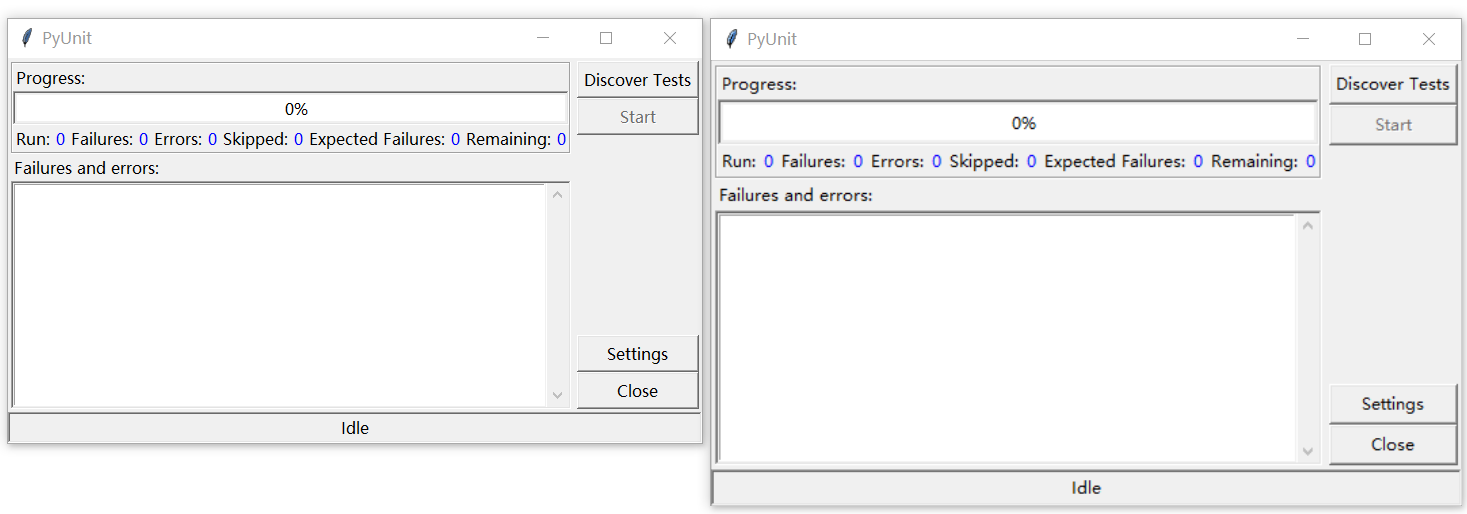
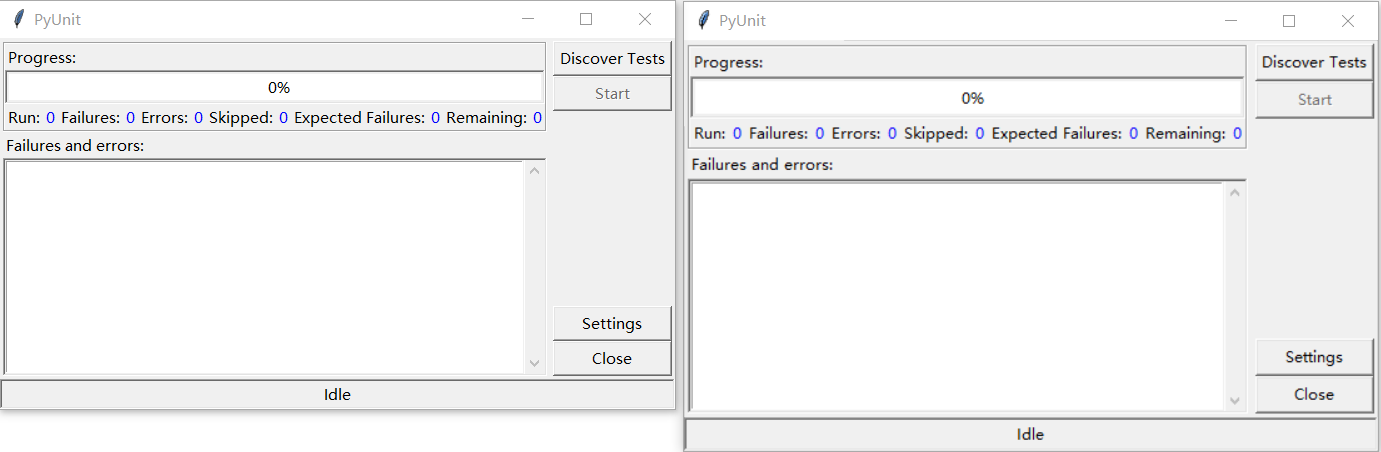
release 1.2.0

Changed region(s): [[0.0, 0.0, 1.0, 1.0]]

diff --git a/hidpi_tk/__init__.py b/hidpi_tk/__init__.py
@@ -3,7 +3,7 @@ import re
 from ctypes import pointer, windll, wintypes
 from tkinter import Tk
 
-__version__ = "1.1.0"
+__version__ = "1.2.0"
 
 __all__ = ("DPIAwareTk", "fix_HiDPI")
 

diff --git a/CHANGES.rst b/CHANGES.rst
@@ -1,6 +1,11 @@
 Changes
 =======
 
+1.2.0 (2025-08-06)
+------------------
+
+- Fix window scaling
+
 1.1.0 (2025-07-05)
 ------------------
 
